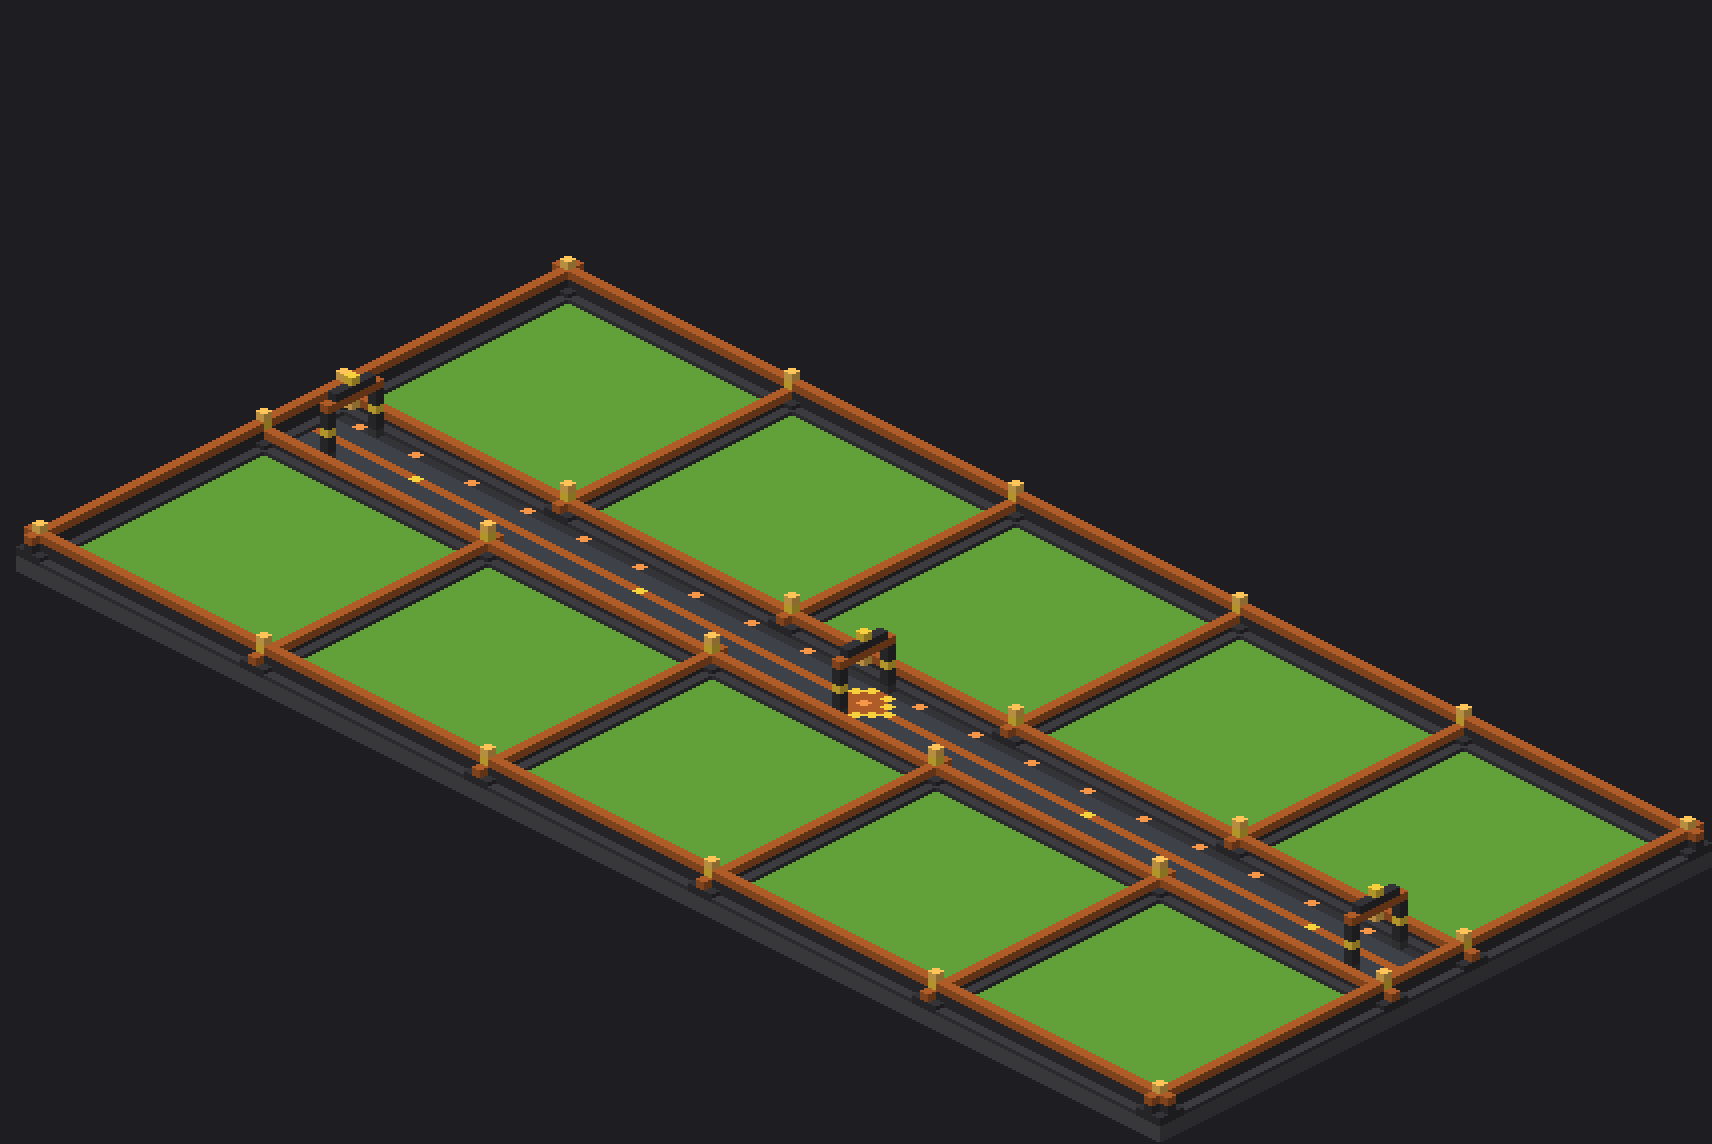
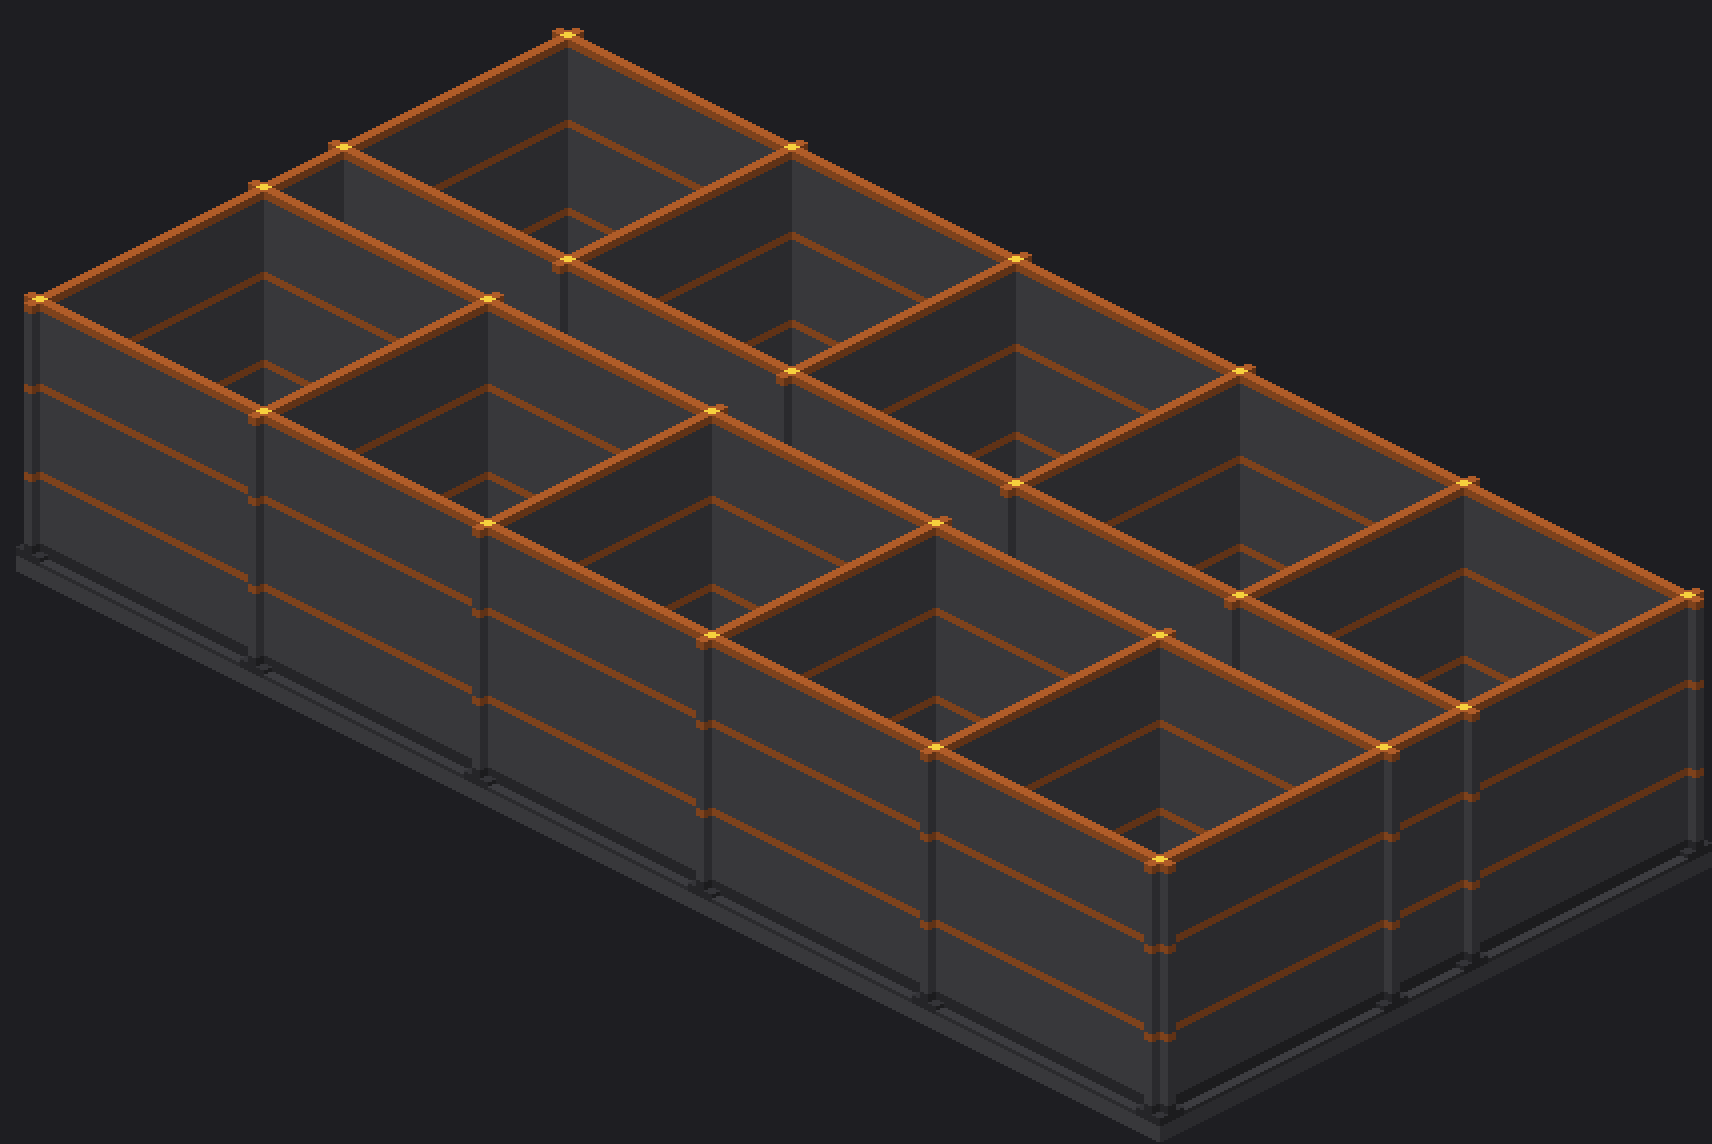
Build Battle map: solid walls up to the ceiling, no barrier walls
Builds stay hidden from each other until voting. Walls are dark deepslate
with orange bands (gold where they meet), 32 blocks high; only the ceiling
is barrier, so daylight still gets in.

diff --git a/scripts/maps/buildbattle_map.py b/scripts/maps/buildbattle_map.py
@@ -4,9 +4,9 @@
 
 Layout (x = east, z = south, y = up; the min corner is where you stand when you //paste):
   * 10 plots of 25 x 25 (grass floor), 5 in a row on each side of a 7-wide walkway.
-  * Plots are framed by 3-wide dark borders: a low deepslate wall with an orange cap, gold-and-lantern pillars where
-    borders cross. Invisible barrier walls above the borders and a barrier ceiling keep builders (and their builds)
-    apart: 32 blocks of build height above each floor.
+  * Plots are framed by 3-wide dark borders with a solid wall up the middle, as high as the build space, so nobody
+    sees anyone else's build until voting: dark deepslate with orange bands, gold where walls meet. Over everything is
+    an invisible barrier ceiling (it lets daylight in), 32 blocks above each floor.
   * The walkway is dark grey with an orange centre line, a gold marker in front of each plot and a gold/orange emblem
     in the middle (the lobby spot), under three archways (one at each end, one over the emblem).
 """
@@ -39,13 +39,13 @@ TILES = "minecraft:deepslate_tiles"
 TILE_SLAB = "minecraft:deepslate_tile_slab[type=bottom,waterlogged=false]"
 CAP = "minecraft:orange_terracotta"
 GOLD = "minecraft:gold_block"
-LANTERN = "minecraft:lantern[hanging=false,waterlogged=false]"
 WALK_EDGE = "minecraft:deepslate_tiles"
 WALK_MID = "minecraft:gray_concrete"
 WALK_LINE = "minecraft:orange_terracotta"
 GLOW = "minecraft:shroomlight"
 HANGING = "minecraft:lantern[hanging=true,waterlogged=false]"
 CHISELED = "minecraft:chiseled_deepslate"
+BANDS = (12, 23)  # heights of the orange bands along the walls
 
 
 def plot_columns():
@@ -104,23 +104,16 @@ def build():
             on_z = z in border_z_mids
             # The walkway is open along x: no vertical wall crosses it.
             if on_x or on_z:
+                # A solid wall from the slab steps up to the ceiling.
                 crossing = on_x and on_z
-                if crossing:
-                    put(x, 2, z, TILES)
-                    put(x, 3, z, TILES)
-                    put(x, 4, z, GOLD)
-                    put(x, 5, z, LANTERN)
-                    for y in range(6, CEILING):
-                        put(x, y, z, BARRIER)
-                else:
-                    tall = outer(x, z)
-                    put(x, 2, z, TILES)
-                    if tall:
-                        put(x, 3, z, TILES)
-                    top = 4 if tall else 3
-                    put(x, top, z, CAP)
-                    for y in range(top + 1, CEILING):
-                        put(x, y, z, BARRIER)
+                for y in range(2, CEILING):
+                    if y in BANDS or y == CEILING - 1:
+                        block = GOLD if crossing else CAP
+                    elif y <= 3 or crossing:
+                        block = TILES
+                    else:
+                        block = BASE
+                    put(x, y, z, block)
             else:
                 # Beside a wall: a slab step, and a 3x3 base around each crossing.
                 near_crossing = any(abs(x - bx) <= 1 for bx in border_x_mids) and any(abs(z - bz) <= 1 for bz in border_z_mids)
